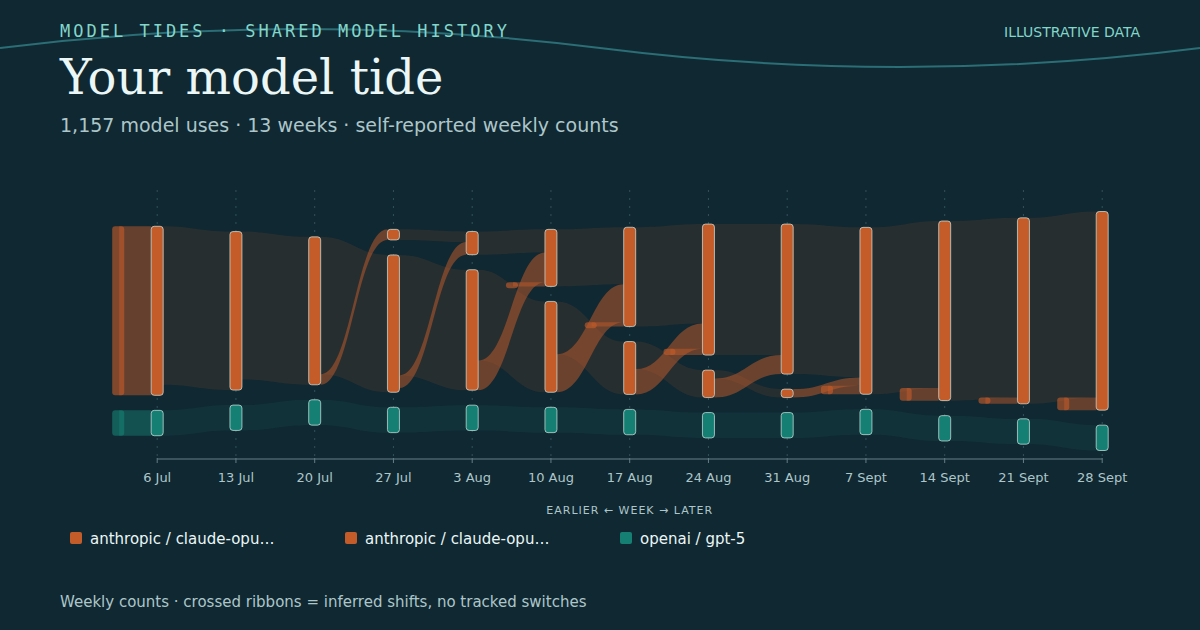
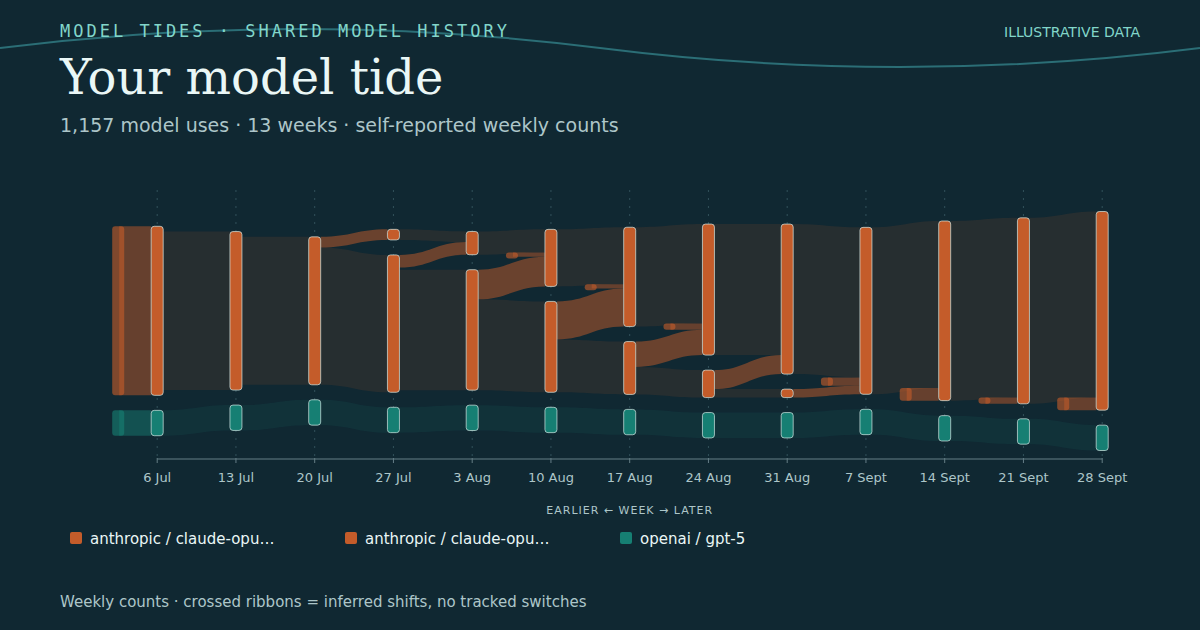
Place inferred migration ribbons on nearest edges

diff --git a/src/flow-svg/renderer.ts b/src/flow-svg/renderer.ts
@@ -123,8 +123,8 @@ interface InferredMigration {
     readonly drop: number;
     readonly rise: number;
     readonly weight: number;
-    readonly sourceOffset: number;
-    readonly targetOffset: number;
+    sourceOffset: number;
+    targetOffset: number;
 }
 
 export const FLOW_PALETTE = [
@@ -369,6 +369,9 @@ export function renderFlowSvg(data: readonly FlowDatum[], options: FlowSvgOption
 
     const inferredMigrations: InferredMigration[] = [];
     const inferredIncoming = new Map<Node, Map<string, number>>();
+    const inferredOutgoing = new Map<Node, Map<string, number>>();
+    const incomingAbove = new Map<Node, Map<string, number>>();
+    const outgoingAbove = new Map<Node, Map<string, number>>();
     if (options.inferMigrations) {
         for (let index = 0; index < periods.length - 1; index += 1) {
             const before = new Map((nodeLists.get(periods[index].time) ?? [])
@@ -378,13 +381,11 @@ export function renderFlowSvg(data: readonly FlowDatum[], options: FlowSvgOption
             const declines = [...before].map(([key, { node, weight }]) => ({
                 key, node, drop: weight - (after.get(key)?.weight ?? 0),
                 remaining: weight - (after.get(key)?.weight ?? 0),
-                offset: Math.min(weight, after.get(key)?.weight ?? 0),
             })).filter(({ remaining }) => remaining > 0)
                 .sort((a, b) => b.drop - a.drop || a.key.localeCompare(b.key));
             const rises = [...after].map(([key, { node, weight }]) => ({
                 key, node, rise: weight - (before.get(key)?.weight ?? 0),
                 remaining: weight - (before.get(key)?.weight ?? 0),
-                offset: Math.min(weight, before.get(key)?.weight ?? 0),
             })).filter(({ remaining }) => remaining > 0)
                 .sort((a, b) => b.rise - a.rise || a.key.localeCompare(b.key));
             // Largest deltas first keeps the diagram legible. This is a visual pairing, not an identity match.
@@ -396,19 +397,62 @@ export function renderFlowSvg(data: readonly FlowDatum[], options: FlowSvgOption
                     inferredMigrations.push({
                         source: decline.node, target: rise.node, from: decline.key, to: rise.key,
                         drop: decline.drop, rise: rise.rise, weight,
-                        sourceOffset: decline.node.rawTops.get(decline.key)! + decline.offset * valueScale,
-                        targetOffset: rise.node.rawTops.get(rise.key)! + rise.offset * valueScale,
+                        sourceOffset: 0, targetOffset: 0,
                     });
                     decline.remaining -= weight;
                     rise.remaining -= weight;
-                    decline.offset += weight;
-                    rise.offset += weight;
                     const incoming = inferredIncoming.get(rise.node) ?? new Map<string, number>();
                     incoming.set(rise.key, (incoming.get(rise.key) ?? 0) + weight);
                     inferredIncoming.set(rise.node, incoming);
+                    const outgoing = inferredOutgoing.get(decline.node) ?? new Map<string, number>();
+                    outgoing.set(decline.key, (outgoing.get(decline.key) ?? 0) + weight);
+                    inferredOutgoing.set(decline.node, outgoing);
                 }
             }
         }
+
+        const rawCenter = (node: Node, key: string): number =>
+            node.rawTops.get(key)! + (node.rawEventWeights.get(key) ?? 0) * valueScale / 2;
+        const placeMigrations = (atSource: boolean, aboveWeights: Map<Node, Map<string, number>>): void => {
+            const grouped = new Map<Node, Map<string, InferredMigration[]>>();
+            for (const migration of inferredMigrations) {
+                const node = atSource ? migration.source : migration.target;
+                const key = atSource ? migration.from : migration.to;
+                const byKey = grouped.get(node) ?? new Map<string, InferredMigration[]>();
+                const group = byKey.get(key) ?? [];
+                group.push(migration);
+                byKey.set(key, group);
+                grouped.set(node, byKey);
+            }
+            for (const [node, byKey] of grouped) {
+                const aboveByKey = new Map<string, number>();
+                aboveWeights.set(node, aboveByKey);
+                for (const [key, group] of byKey) {
+                    const otherCenter = (migration: InferredMigration): number => atSource
+                        ? rawCenter(migration.target, migration.to) : rawCenter(migration.source, migration.from);
+                    const ordered = [...group].sort((a, b) => otherCenter(a) - otherCenter(b) ||
+                        (atSource ? a.to.localeCompare(b.to) : a.from.localeCompare(b.from)));
+                    const above = ordered.filter((migration) => otherCenter(migration) < rawCenter(node, key));
+                    const below = ordered.filter((migration) => otherCenter(migration) >= rawCenter(node, key));
+                    const aboveWeight = above.reduce((sum, migration) => sum + migration.weight, 0);
+                    const belowWeight = below.reduce((sum, migration) => sum + migration.weight, 0);
+                    aboveByKey.set(key, aboveWeight);
+                    const place = (migrations: readonly InferredMigration[], start: number): void => {
+                        const cursor = { value: start };
+                        for (const migration of migrations) {
+                            if (atSource) migration.sourceOffset = cursor.value;
+                            else migration.targetOffset = cursor.value;
+                            cursor.value += migration.weight * valueScale;
+                        }
+                    };
+                    // Keep the retained model in the middle; links to models above/below hug the respective edges.
+                    place(above, node.rawTops.get(key)!);
+                    place(below, node.rawTops.get(key)! + ((node.rawEventWeights.get(key) ?? 0) - belowWeight) * valueScale);
+                }
+            }
+        };
+        placeMigrations(true, outgoingAbove);
+        placeMigrations(false, incomingAbove);
     }
 
     const incomingByNode = new Map<Node, Link[]>();
@@ -595,10 +639,12 @@ export function renderFlowSvg(data: readonly FlowDatum[], options: FlowSvgOption
                 const x2 = xFor(following.bucket) - nodeWidth / 2;
                 const retained = Math.min(node.rawEventWeights.get(key) ?? 0, following.rawEventWeights.get(key) ?? 0);
                 const startY = options.inferMigrations
-                    ? node.rawTops.get(key)! + retained * valueScale / 2
+                    ? node.rawTops.get(key)! + ((outgoingAbove.get(node)?.get(key) ?? 0) +
+                        ((node.rawEventWeights.get(key) ?? 0) - retained - (inferredOutgoing.get(node)?.get(key) ?? 0)) / 2 +
+                        retained / 2) * valueScale
                     : node.continuityCenters.get(key) ?? node.y + node.height / 2;
                 const endY = options.inferMigrations
-                    ? following.rawTops.get(key)! + retained * valueScale / 2
+                    ? following.rawTops.get(key)! + ((incomingAbove.get(following)?.get(key) ?? 0) + retained / 2) * valueScale
                     : following.continuityCenters.get(key) ?? following.y + following.height / 2;
                 const control = Math.max(0, (x2 - x1) * 0.45);
                 const fromBand = options.inferMigrations ? retained * valueScale : Math.min(node.height, Math.max(1, fromWeight * valueScale));
@@ -677,7 +723,8 @@ export function renderFlowSvg(data: readonly FlowDatum[], options: FlowSvgOption
             if (absorbedEntryLinks.has(link)) continue;
             const backtailX = targetX - 38;
             const entryOffset = options.inferMigrations
-                ? link.target.rawTops.get(targetRawKey)! + (retained + incoming) * valueScale : link.targetOffset;
+                ? link.target.rawTops.get(targetRawKey)! + (retained + (incomingAbove.get(link.target)?.get(targetRawKey) ?? 0)) * valueScale
+                : link.targetOffset;
             const centerY = entryOffset + entryWeight * valueScale / 2;
             const streamHeight = entryWeight * valueScale;
             const clickPairs = escapeSvg(JSON.stringify([...link.pairs.values()]));
